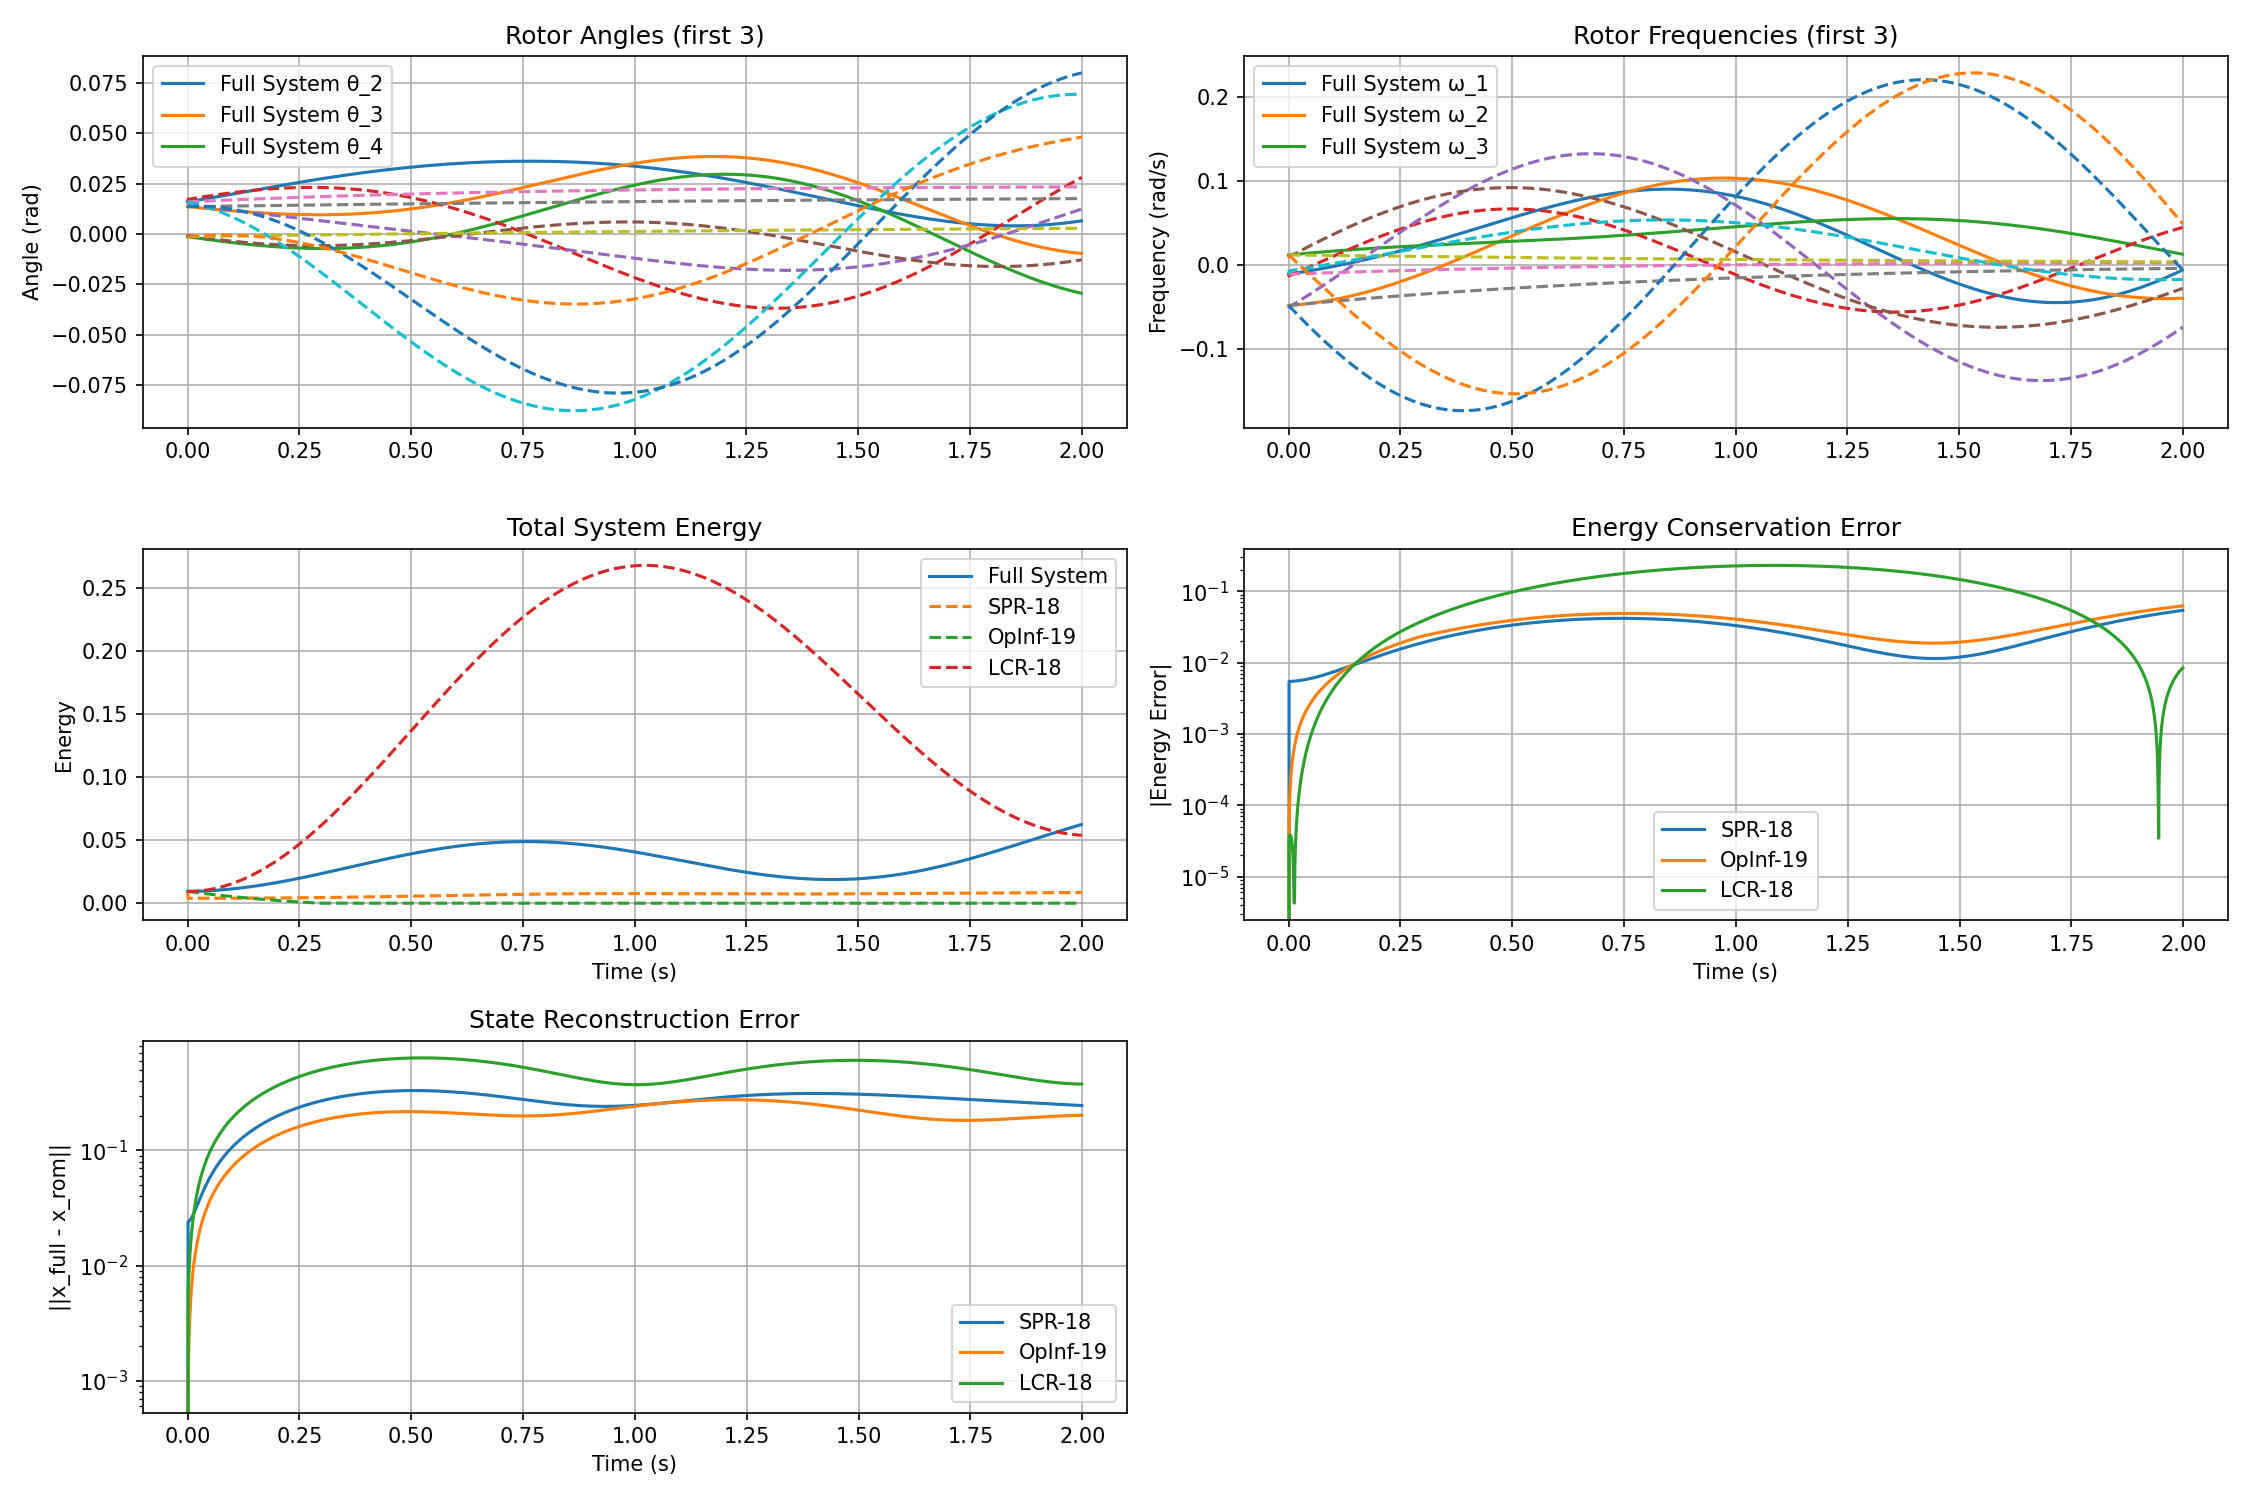
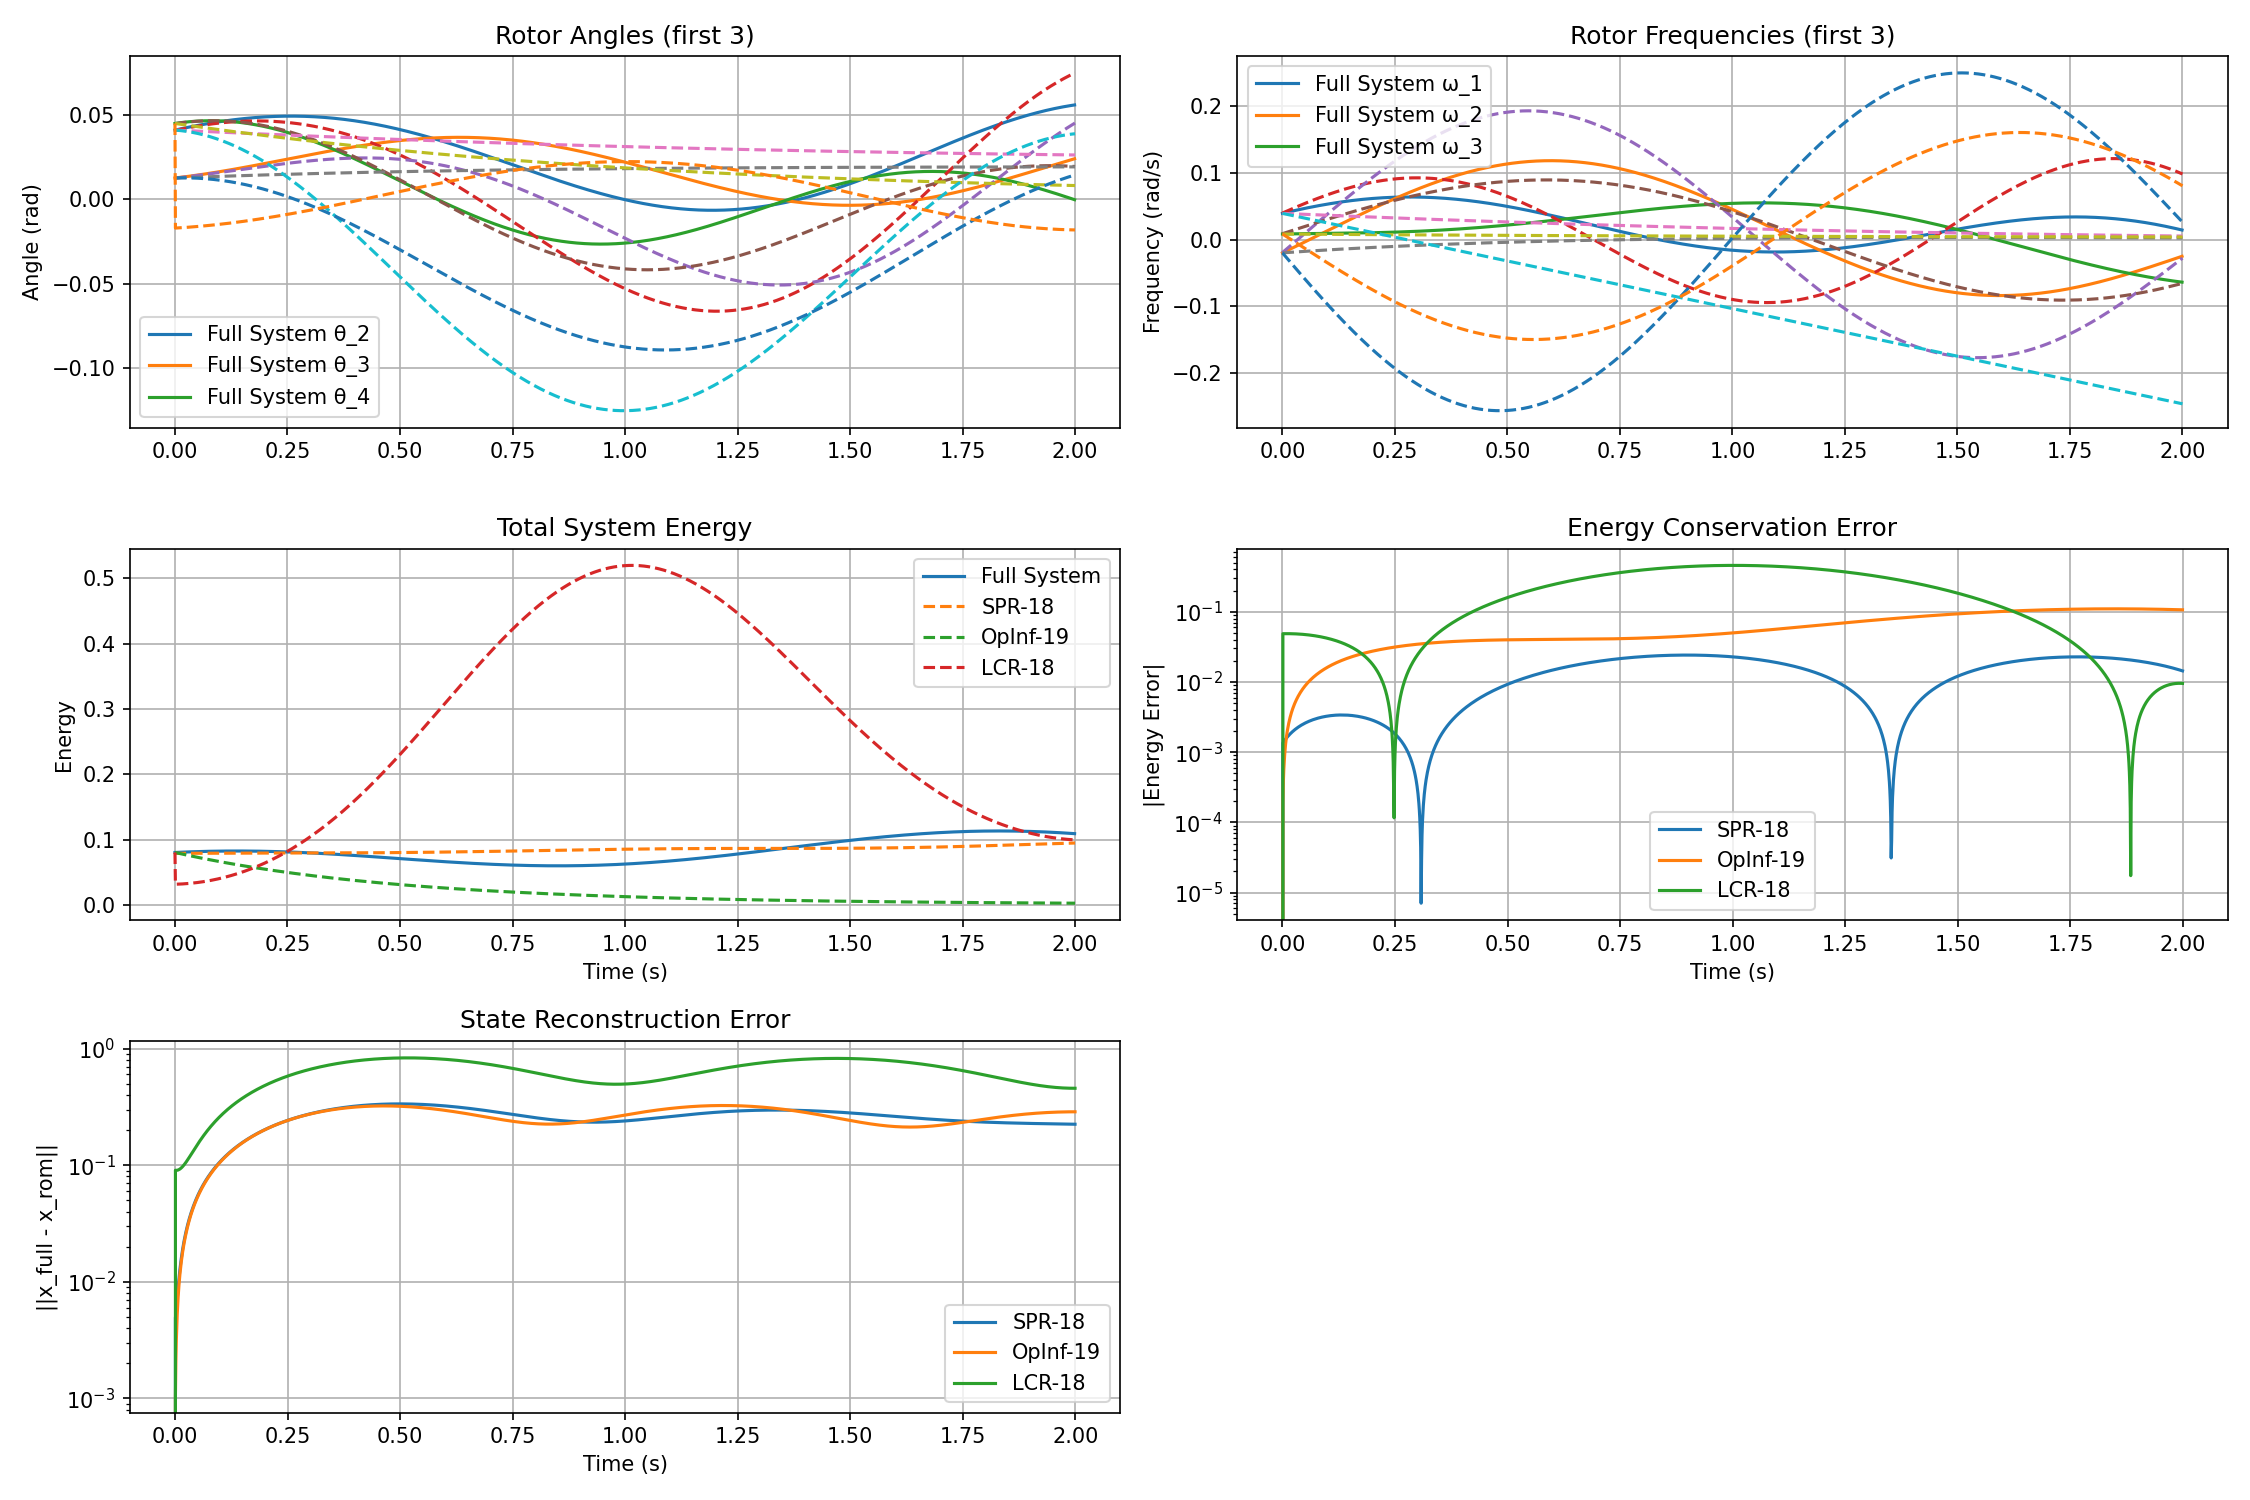
fix_energy

diff --git a/neural_clbf/systems/SwingEquationSystems.py b/neural_clbf/systems/SwingEquationSystems.py
@@ -590,62 +590,80 @@ class SwingEquationSystem(ControlAffineSystem):
         diff = delta.unsqueeze(2) - delta.unsqueeze(1)
         U_pair = 0.5 * self.B_matrix.to(delta.device) * (1 - torch.cos(diff))
         return U_pair.sum(2)
-
-    def energy_function(self, x: torch.Tensor) -> torch.Tensor:
+ 
+    # -------------------------------------------------------------------------
+    #  NEW unified energy routine – drop‑in replacement
+    # -------------------------------------------------------------------------
+    def energy_function(
+        self,
+        x: torch.Tensor,
+        *,
+        relative: bool = True,
+    ) -> torch.Tensor:
         """
-        Correct energy function avoiding double counting of coupling terms.
-        For symmetric B matrix: V = sum_{i<j} B_ij * (1 - cos(delta_i - delta_j))
+        Hamiltonian (kinetic + potential) of the n‑machine swing system.
+
+        Parameters
+        ----------
+        x : (B, n_dims) or (n_dims,) tensor
+            State in *relative‑angle* coordinates
+            ``x = [θ_12 … θ_1n, ω_1 … ω_n]``.
+        relative : bool, default **True**
+            • ``True``  – return the **Lyapunov candidate**
+
+                  V_rel = T + (V – V_eq)
+
+              so V_rel(x_eq)=0.
+
+            • ``False`` – return the **absolute Hamiltonian**
+
+                  H = T + V
+
+              so H(x_eq)=T_eq+V_eq = V_eq.
+
+        Notes
+        -----
+        *The only difference from the old code is the extra keyword and the
+        caching of V_eq; the numerical expressions are unchanged.*
         """
-        B_size = x.shape[0]
-        N = self.N_NODES
+        # ---- tensor hygiene --------------------------------------------------
+        if x.dim() == 1:
+            x = x.unsqueeze(0)
+        Bsz, N_tot = x.shape
+        assert N_tot == self.N_DIMS, f"expected {self.N_DIMS}-vector, got {N_tot}"
+        device, dtype = x.device, x.dtype
+        n = self.N_NODES
 
-        # Extract states
-        theta = x[:, :N-1]  # theta[i-1] = theta_1i = delta_1 - delta_i
-        omega = x[:, N-1:]
+        θ_rel = x[:, : n - 1]                 # (B, n‑1)
+        ω      = x[:, n - 1:]                 # (B, n)
 
-        # Kinetic energy
-        M_device = self.M.to(x.device)
-        if M_device.dim() == 1:
-            M_device = M_device.unsqueeze(0)
-        T = 0.5 * (M_device * omega ** 2).sum(1)
+        # ---- kinetic energy --------------------------------------------------
+        T = 0.5 * (self.M.to(device, dtype) * ω**2).sum(dim=1)   # (B,)
 
-        # Potential energy - count each pair only once!
-        B = self.B_matrix.to(x.device)
-        V = torch.zeros(B_size, device=x.device)
-        
-        # For all pairs (i,j) with i < j:
-        # delta_i - delta_j = ?
-        # delta_0 = 0 (reference)
-        # delta_i = -theta[i-1] for i > 0
-        
-        # Pairs involving machine 0
-        for j in range(1, N):
-            # delta_0 - delta_j = 0 - (-theta[j-1]) = theta[j-1]
-            V = V + B[0, j] * (1 - torch.cos(theta[:, j-1]))
-        
-        # Pairs not involving machine 0  
-        for i in range(1, N):
-            for j in range(i+1, N):
-                # delta_i - delta_j = -theta[i-1] - (-theta[j-1]) = theta[j-1] - theta[i-1]
-                V = V + B[i, j] * (1 - torch.cos(theta[:, j-1] - theta[:, i-1]))
-        
-        # Compute equilibrium energy
-        x_eq = self.goal_point.squeeze()
-        theta_eq = x_eq[:N-1]
-        
-        V_eq = 0.0
-        # Same structure for equilibrium
-        for j in range(1, N):
-            V_eq = V_eq + B[0, j] * (1 - torch.cos(theta_eq[j-1]))
-        
-        for i in range(1, N):
-            for j in range(i+1, N):
-                V_eq = V_eq + B[i, j] * (1 - torch.cos(theta_eq[j-1] - theta_eq[i-1]))
-        
-        # Total relative energy
-        E = T + (V - V_eq)
-        
-        return E
+        # ---- potential energy (count each i<j once) --------------------------
+        δ = torch.zeros(Bsz, n, device=device, dtype=dtype)      # δ_1 = 0
+        δ[:, 1:] = -θ_rel                                        # δ_i = −θ_1i
+
+        Δ = δ.unsqueeze(2) - δ.unsqueeze(1)                      # (B,n,n)
+
+        mask = torch.triu(torch.ones(n, n, dtype=torch.bool, device=device), 1)
+        V = ( self.B_matrix.to(device, dtype)[mask] *
+              (1.0 - torch.cos(Δ[:, mask])) ).sum(dim=1)         # (B,)
+
+        # ---- subtract equilibrium offset if asked for -----------------------
+        if relative:
+            if not hasattr(self, "_V_eq_cache"):
+                θ_eq = self.goal_point.squeeze()[: n - 1]        # (n‑1,)
+                δ_eq = torch.zeros(n, device=device, dtype=dtype)
+                δ_eq[1:] = -θ_eq
+                Δ_eq = δ_eq.unsqueeze(1) - δ_eq.unsqueeze(0)
+                V_eq = ( self.B_matrix.to(device, dtype)[mask] *
+                         (1.0 - torch.cos(Δ_eq[mask])) ).sum()
+                self._V_eq_cache = V_eq.detach()
+            V = V - self._V_eq_cache.to(device)
+
+        return T + V
+
 
     @torch.no_grad()
     def collect_random_trajectories(

diff --git a/neural_clbf/retain_freq.py b/neural_clbf/retain_freq.py
@@ -5,6 +5,7 @@ Full Dimension Test with Actual Trajectory Simulation
 Tests all reducers with d=19 (full dimension) by simulating actual trajectories
 over time and comparing full vs reduced model behavior.
 """
+import sys
 import torch
 import numpy as np
 import matplotlib.pyplot as plt
@@ -335,7 +336,7 @@ def test_energy_consistency(sys, params):
     E_manual = T_manual + V_manual
     
     # Compare with system's energy function
-    E_sys = sys.energy_function(x_test.unsqueeze(0)).squeeze()
+    E_sys = sys.energy_function(x_test.unsqueeze(0), relative=False).squeeze()
     
     print(f"   Manual calculation: E = {E_manual.item():.6f}")
     print(f"   System energy func: E = {E_sys.item():.6f}")
@@ -346,7 +347,7 @@ def test_energy_consistency(sys, params):
         
     # Test 3: Check if energy at equilibrium is handled correctly
     print("\n3. ENERGY AT EQUILIBRIUM:")
-    E_eq = sys.energy_function(x_eq.unsqueeze(0)).squeeze()
+    E_eq = sys.energy_function(x_eq.unsqueeze(0), relative=False).squeeze()
     print(f"   E(x_eq) = {E_eq.item():.6f}")
     
     # The energy function might be defined relative to equilibrium
@@ -439,7 +440,7 @@ def test_trajectory_preservation():
     try:
         A, J, R = sys.linearise(return_JR=True)
         # Try with enhanced=False to see if it preserves symplectic structure better
-        spr = SymplecticProjectionReducer(A, J, R, 18, enhanced=False)
+        spr = SymplecticProjectionReducer(A, J, R, 18, enhanced=True)
         spr.full_dim = 19
         
         # Simulate trajectories
@@ -738,7 +739,7 @@ def verify_energy_function(sys, params):
     x_test.requires_grad_(True)
     
     # 1. CHECK ENERGY GRADIENT MATCHES DYNAMICS STRUCTURE
-    E = sys.energy_function(x_test.unsqueeze(0)).squeeze()
+    E = sys.energy_function(x_test.unsqueeze(0), relative=False).squeeze()
     grad_E = torch.autograd.grad(E, x_test, create_graph=True)[0]
     
     # Split gradient
